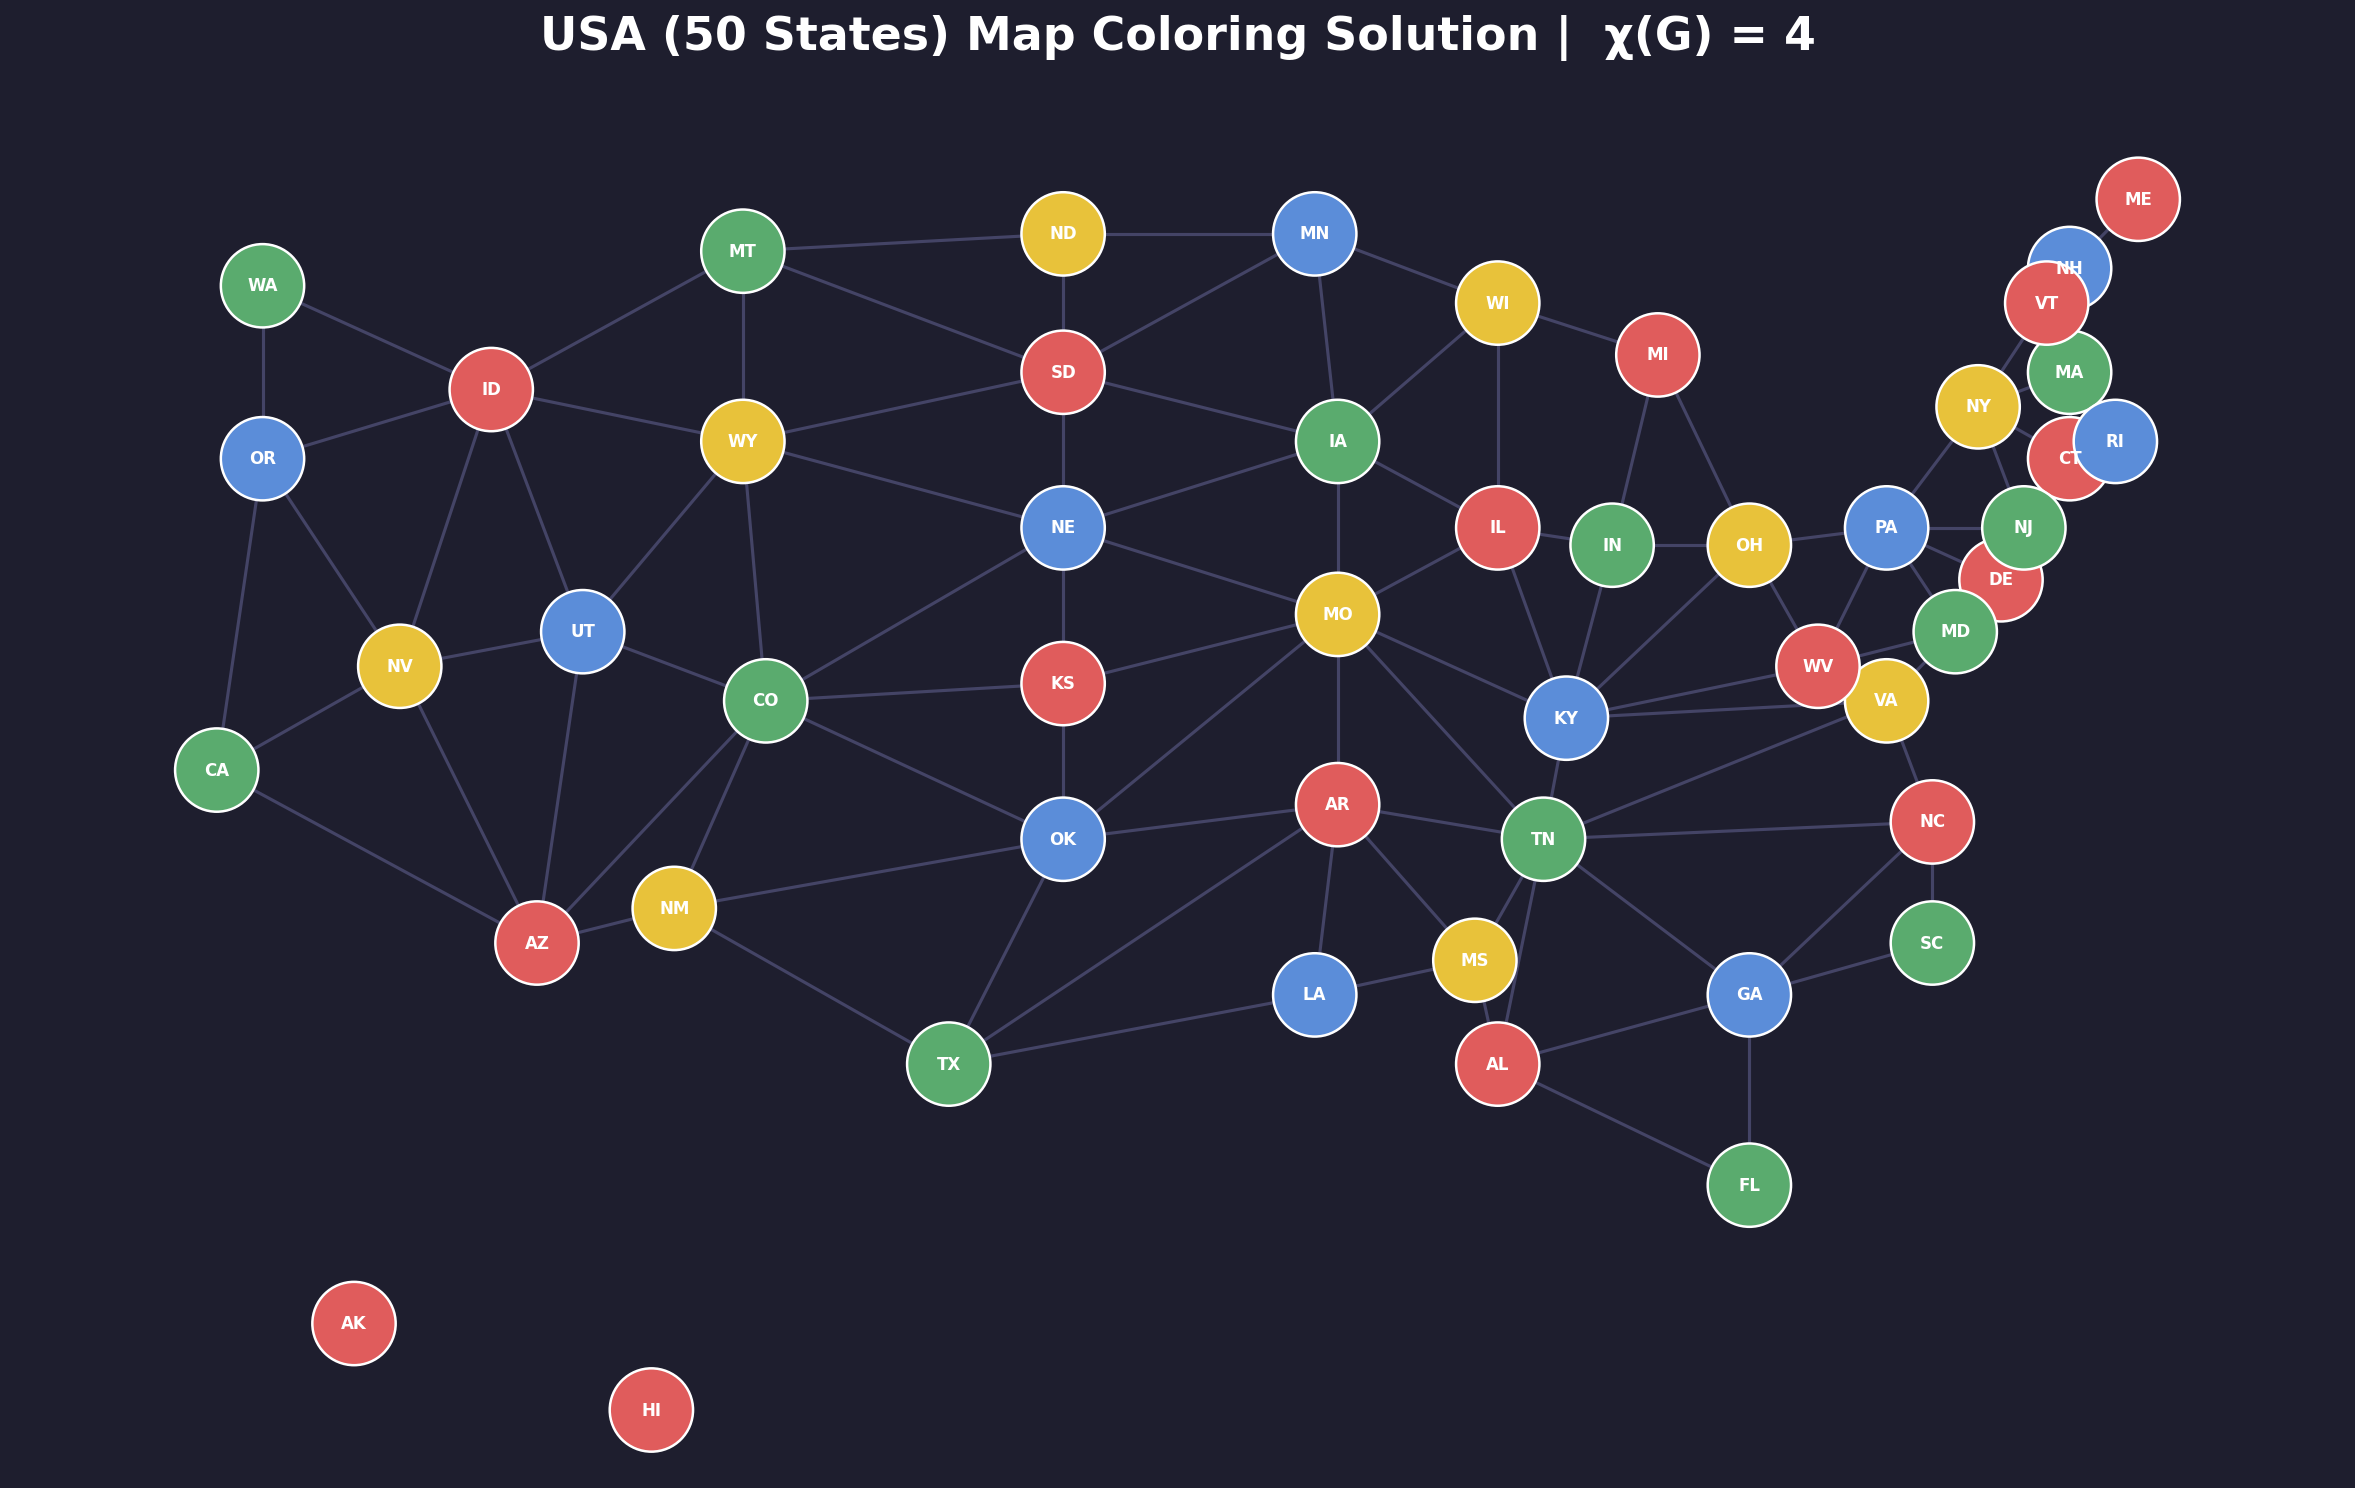
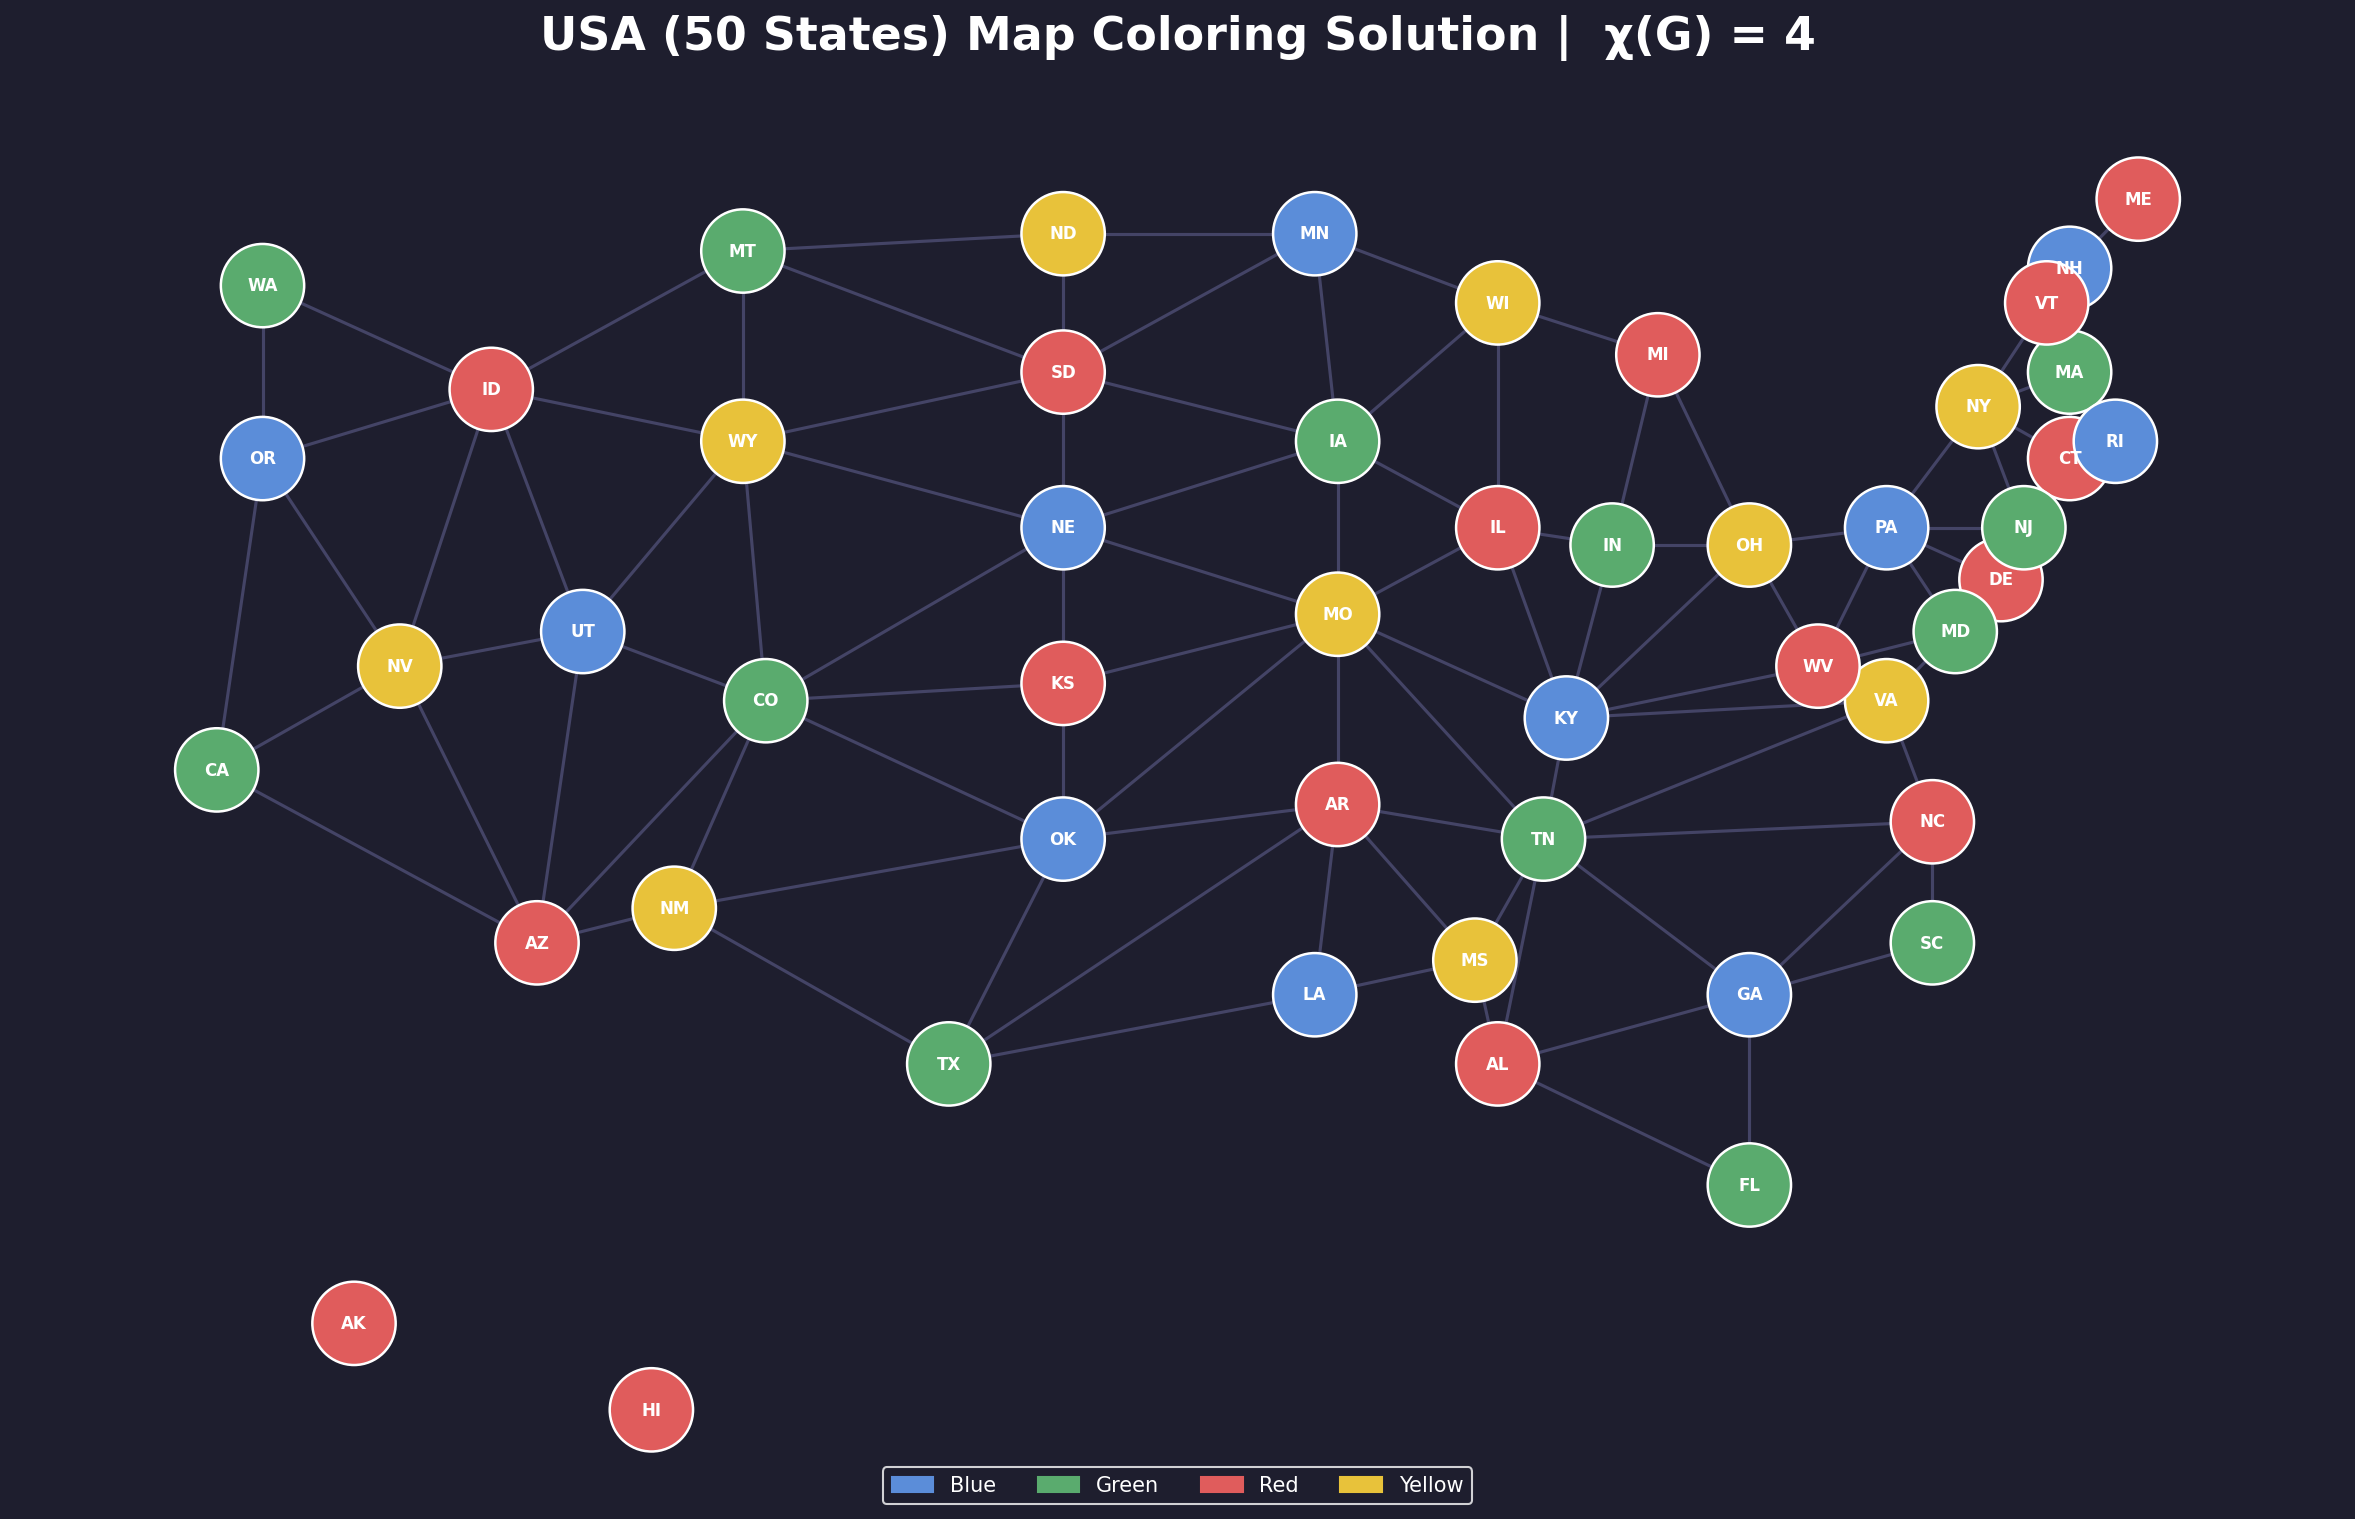
Made some tweaks

diff --git a/visualize.py b/visualize.py
@@ -4,6 +4,8 @@ visualize.py - graph visualization, called from main.py when --visualize is set
 requires: pip install networkx matplotlib
 """
 import os
+import matplotlib.pyplot as plt
+import matplotlib.patches as mpatches
 
 # softer palette - easier on the eyes against dark background
 _COLOR_MAP = {
@@ -45,6 +47,25 @@ def draw_colored_map(adjacency, coloring, title, output_name=None, output_dir='.
     nx.draw_networkx_edges(G, pos, ax=ax, edge_color='#444466', width=1.5)
     nx.draw_networkx_nodes(G, pos, ax=ax, node_color=node_colors, node_size=1600, edgecolors='white', linewidths=1.2)
     nx.draw_networkx_labels(G, pos, ax=ax, font_size=8, font_weight='bold', font_color='white')
+
+    legend_handles = [
+        mpatches.Patch(color='#5b8dd9', label='Blue'),
+        mpatches.Patch(color='#5aab6e', label='Green'),
+        mpatches.Patch(color='#e05c5c', label='Red'),
+        mpatches.Patch(color='#e8c23a', label='Yellow'),
+    ]
+
+    ax.legend(
+        handles=legend_handles,
+        loc='lower center',
+        bbox_to_anchor=(0.5, -0.03),
+        ncol=4,
+        frameon=True,
+        facecolor=BG,
+        edgecolor='white',
+        labelcolor='white',
+        fontsize=10
+    )
 
     ax.axis('off')
     filename = output_name if output_name is not None else title

diff --git a/output/both_5trials_seed42.md b/output/both_5trials_seed42.md
@@ -16,9 +16,9 @@
 
 | Algorithm | T1 | T2 | T3 | T4 | T5 | **Avg** |
 |:---|---:|---:|---:|---:|---:|---:|
-| DFS | 0.000512 | 0.000051 | 0.000057 | 0.000056 | 0.000039 | **0.000143** |
-| DFS + FC | 0.000078 | 0.000066 | 0.000042 | 0.000046 | 0.000047 | **0.000056** |
-| DFS + FC + Singleton | 0.000066 | 0.000051 | 0.000048 | 0.000045 | 0.000050 | **0.000052** |
+| DFS | 0.000688 | 0.000086 | 0.000048 | 0.000059 | 0.000052 | **0.000186** |
+| DFS + FC | 0.000106 | 0.000079 | 0.000062 | 0.000070 | 0.000071 | **0.000077** |
+| DFS + FC + Singleton | 0.000082 | 0.000066 | 0.000062 | 0.000059 | 0.000078 | **0.000069** |
 
 ### With Heuristics
 
@@ -34,9 +34,9 @@
 
 | Algorithm | T1 | T2 | T3 | T4 | T5 | **Avg** |
 |:---|---:|---:|---:|---:|---:|---:|
-| DFS + H | 0.000067 | 0.000068 | 0.000059 | 0.000053 | 0.000057 | **0.000061** |
-| DFS + FC + H | 0.000051 | 0.000052 | 0.000061 | 0.000057 | 0.000054 | **0.000055** |
-| DFS + FC + Singleton + H | 0.000056 | 0.000054 | 0.000062 | 0.000059 | 0.000050 | **0.000056** |
+| DFS + H | 0.000078 | 0.000072 | 0.000072 | 0.000054 | 0.000055 | **0.000066** |
+| DFS + FC + H | 0.000111 | 0.000082 | 0.000082 | 0.000053 | 0.000051 | **0.000076** |
+| DFS + FC + Singleton + H | 0.000100 | 0.000096 | 0.000065 | 0.000068 | 0.000062 | **0.000078** |
 
 ## USA - k = 4
 
@@ -54,9 +54,9 @@
 
 | Algorithm | T1 | T2 | T3 | T4 | T5 | **Avg** |
 |:---|---:|---:|---:|---:|---:|---:|
-| DFS | 0.000277 | 5.482306 | 0.000259 | DNF | 0.011337 | **1.373545**\* |
-| DFS + FC | 0.000254 | 0.066120 | 0.000238 | 2.643979 | 0.017621 | **0.545642** |
-| DFS + FC + Singleton | 0.000319 | 0.000421 | 0.000341 | 0.119032 | 0.011336 | **0.026290** |
+| DFS | 0.000271 | 5.095197 | 0.000267 | DNF | 0.016845 | **1.278145**\* |
+| DFS + FC | 0.000235 | 0.061104 | 0.000238 | 2.520738 | 0.017605 | **0.519984** |
+| DFS + FC + Singleton | 0.000309 | 0.000440 | 0.000325 | 0.105774 | 0.011284 | **0.023626** |
 
 ### With Heuristics
 
@@ -72,6 +72,6 @@
 
 | Algorithm | T1 | T2 | T3 | T4 | T5 | **Avg** |
 |:---|---:|---:|---:|---:|---:|---:|
-| DFS + H | DNF | 0.023896 | 0.621513 | 0.028638 | 0.011303 | **0.171337**\* |
-| DFS + FC + H | 0.030052 | 0.023804 | 0.029445 | 0.023797 | 0.011086 | **0.023637** |
-| DFS + FC + Singleton + H | 0.017618 | 0.023806 | 0.030027 | 0.023281 | 0.023752 | **0.023697** |
+| DFS + H | DNF | 0.029811 | 0.617373 | 0.023471 | 0.023641 | **0.173574**\* |
+| DFS + FC + H | 0.030908 | 0.030057 | 0.017000 | 0.031001 | 0.023847 | **0.026562** |
+| DFS + FC + Singleton + H | 0.029449 | 0.023813 | 0.023683 | 0.033571 | 0.023798 | **0.026863** |
